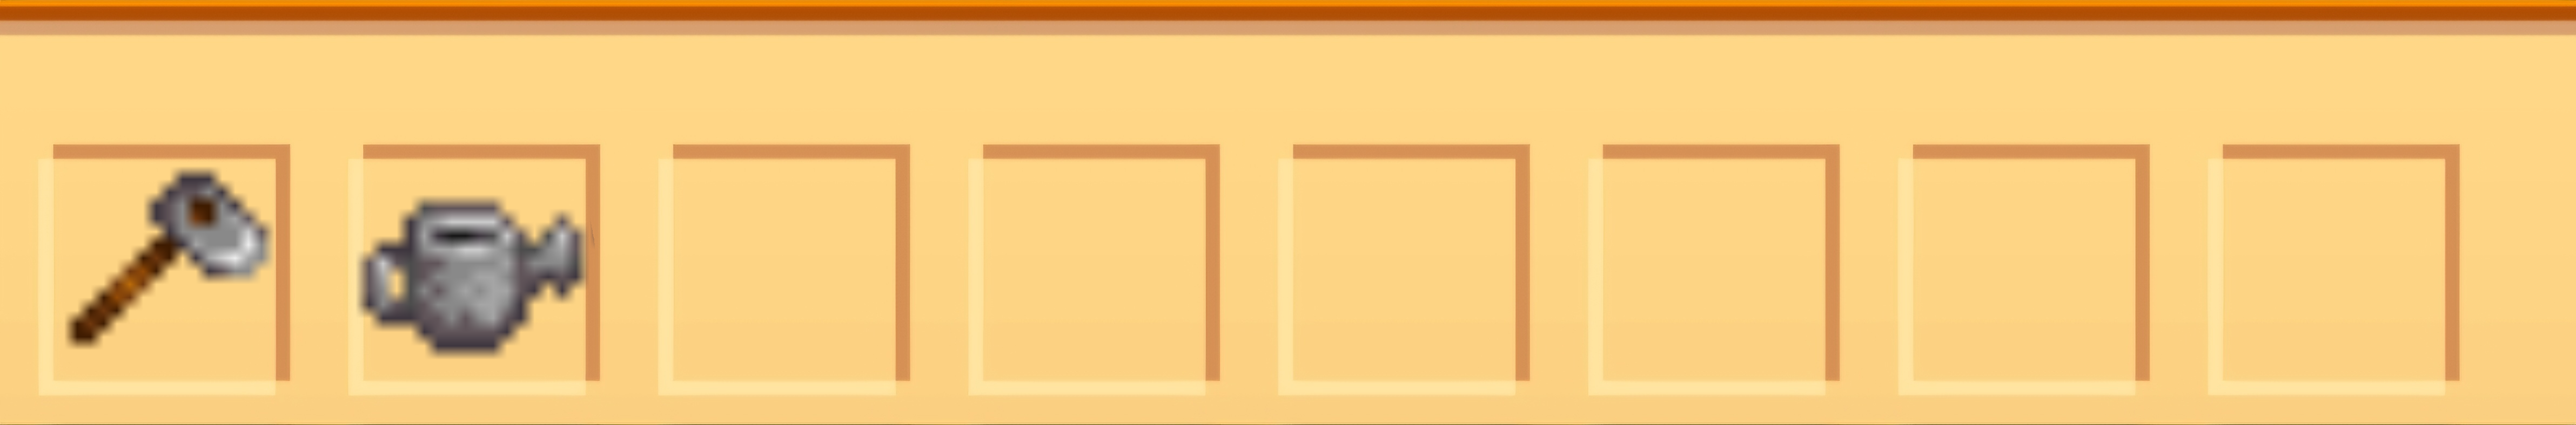
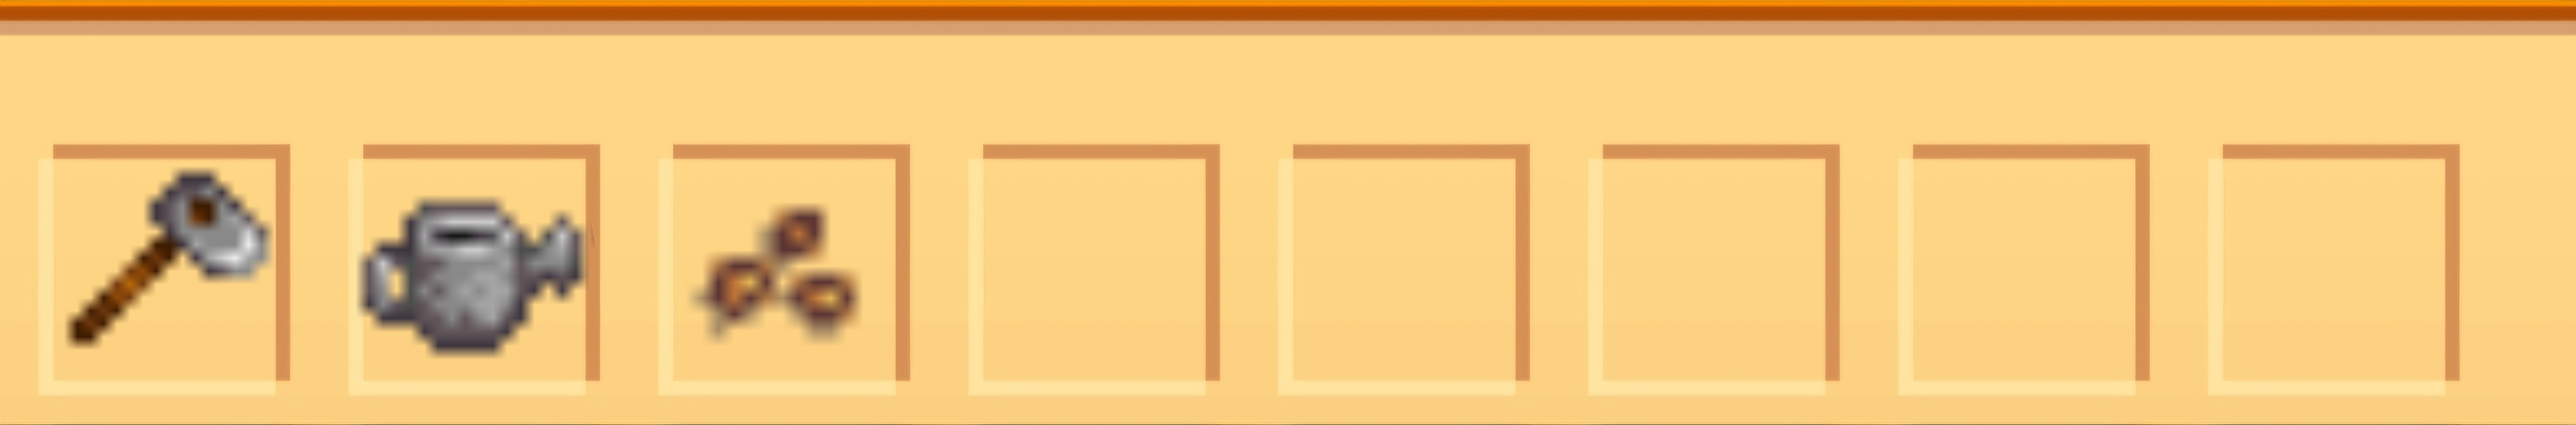
물주기 방향을 밭과 충돌한 위치에 두도록

Changed region(s): [[0.25, 0.4873, 0.3438, 0.8223]]

diff --git a/girl.py b/girl.py
@@ -250,6 +250,26 @@ class Girl:
         return  self.x - 25, self.y - 50, self.x + 25, self.y + 30
 
     def select_item(self):
+        if self.item == 'Water':
+            if not self.hoes:
+                return
+
+            water_x, water_y = self.x, self.y
+
+            for existing_hoe in self.hoes:
+                if collide(self, existing_hoe):  # 충돌하는 Hoe를 찾음
+                    water_x, water_y = existing_hoe.x, existing_hoe.y  # Hoe의 좌표 사용
+                    break
+
+            select_item = water = Water(water_x, water_y)
+            for existing_water in self.waters:
+                if collide(water, existing_water):
+                    return
+
+            self.waters.append(water)
+            game_world.add_objects([select_item], 1)
+            game_world.add_collision_pair('water:water', water, None)
+
         if self.action == 10: # 위쪽
             if self.item == 'Hoe':
                 select_item = hoe = Hoe(self.x, self.y)
@@ -261,26 +281,6 @@ class Girl:
                 self.hoes.append(hoe)
                 game_world.add_objects([select_item], 1)
                 game_world.add_collision_pair('hoe:hoe', hoe, None)
-            elif self.item == 'Water':
-                if not self.hoes:
-                    return
-
-                water_x, water_y = self.x, self.y
-
-                for existing_hoe in self.hoes:
-                    if collide(self, existing_hoe):  # 충돌하는 Hoe를 찾음
-                        water_x, water_y = existing_hoe.x, existing_hoe.y  # Hoe의 좌표 사용
-                        break
-
-                select_item = water = Water(water_x, water_y)
-                for existing_water in self.waters:
-                    if collide(water, existing_water):
-                        return
-
-                self.hoes.append(water)
-                game_world.add_objects([select_item], 1)
-                game_world.add_collision_pair('water:water', water, None)
-
                 pass
 
         elif self.action == 12: # 아래쪽(정면)
@@ -294,17 +294,6 @@ class Girl:
                 self.hoes.append(hoe)
                 game_world.add_objects([select_item], 1)
                 game_world.add_collision_pair('hoe:hoe', hoe, None)
-            elif self.item == 'Water':
-                select_item = water = Water(self.x, self.y)
-
-                for existing_water in self.waters:
-                    if collide(water, existing_water):
-                        return
-
-                self.hoes.append(water)
-                game_world.add_objects([select_item], 1)
-                game_world.add_collision_pair('water:water', water, None)
-
                 pass
 
         if self.action == 9: # 왼쪽
@@ -318,16 +307,6 @@ class Girl:
                 self.hoes.append(hoe)
                 game_world.add_objects([select_item], 1)
                 game_world.add_collision_pair('hoe:hoe', hoe, None)
-            elif self.item == 'Water':
-                select_item = water = Water(self.x, self.y)
-
-                for existing_water in self.waters:
-                    if collide(water, existing_water):
-                        return
-
-                self.hoes.append(water)
-                game_world.add_objects([select_item], 1)
-                game_world.add_collision_pair('water:water', water, None)
 
                 pass
 
@@ -342,17 +321,6 @@ class Girl:
                 self.hoes.append(hoe)
                 game_world.add_objects([select_item], 1)
                 game_world.add_collision_pair('hoe:hoe', hoe, None)
-            elif self.item == 'Water':
-                select_item = water = Water(self.x, self.y)
-
-                for existing_water in self.waters:
-                    if collide(water, existing_water):
-                        return
-
-                self.hoes.append(water)
-                game_world.add_objects([select_item], 1)
-                game_world.add_collision_pair('water:water', water, None)
-
                 pass
 
         return self.hoes

diff --git a/play_mode.py b/play_mode.py
@@ -25,6 +25,9 @@ def init():
     if server.girl.hoes: # 리스트가 비어있지 않다면
         for hoe in server.girl.hoes:
             game_world.add_collision_pair('hoe:hoe', None, hoe)
+        if server.girl.waters:  # 리스트가 비어있지 않다면
+            for water in server.girl.waters:
+                game_world.add_collision_pair('water:water', None, water)
 
     game_world.add_collision_pair('girl:house', server.girl, map2)
 

diff --git a/item_mode.py b/item_mode.py
@@ -37,6 +37,8 @@ def handle_events():
             play_mode.server.girl.item = 'Water'
             game_framework.pop_mode()
         elif (event.type, event.key) == (SDL_KEYDOWN, SDLK_3):
+            play_mode.server.girl.item = 'Seed'
+            game_framework.pop_mode()
             pass
 
 def pause():
